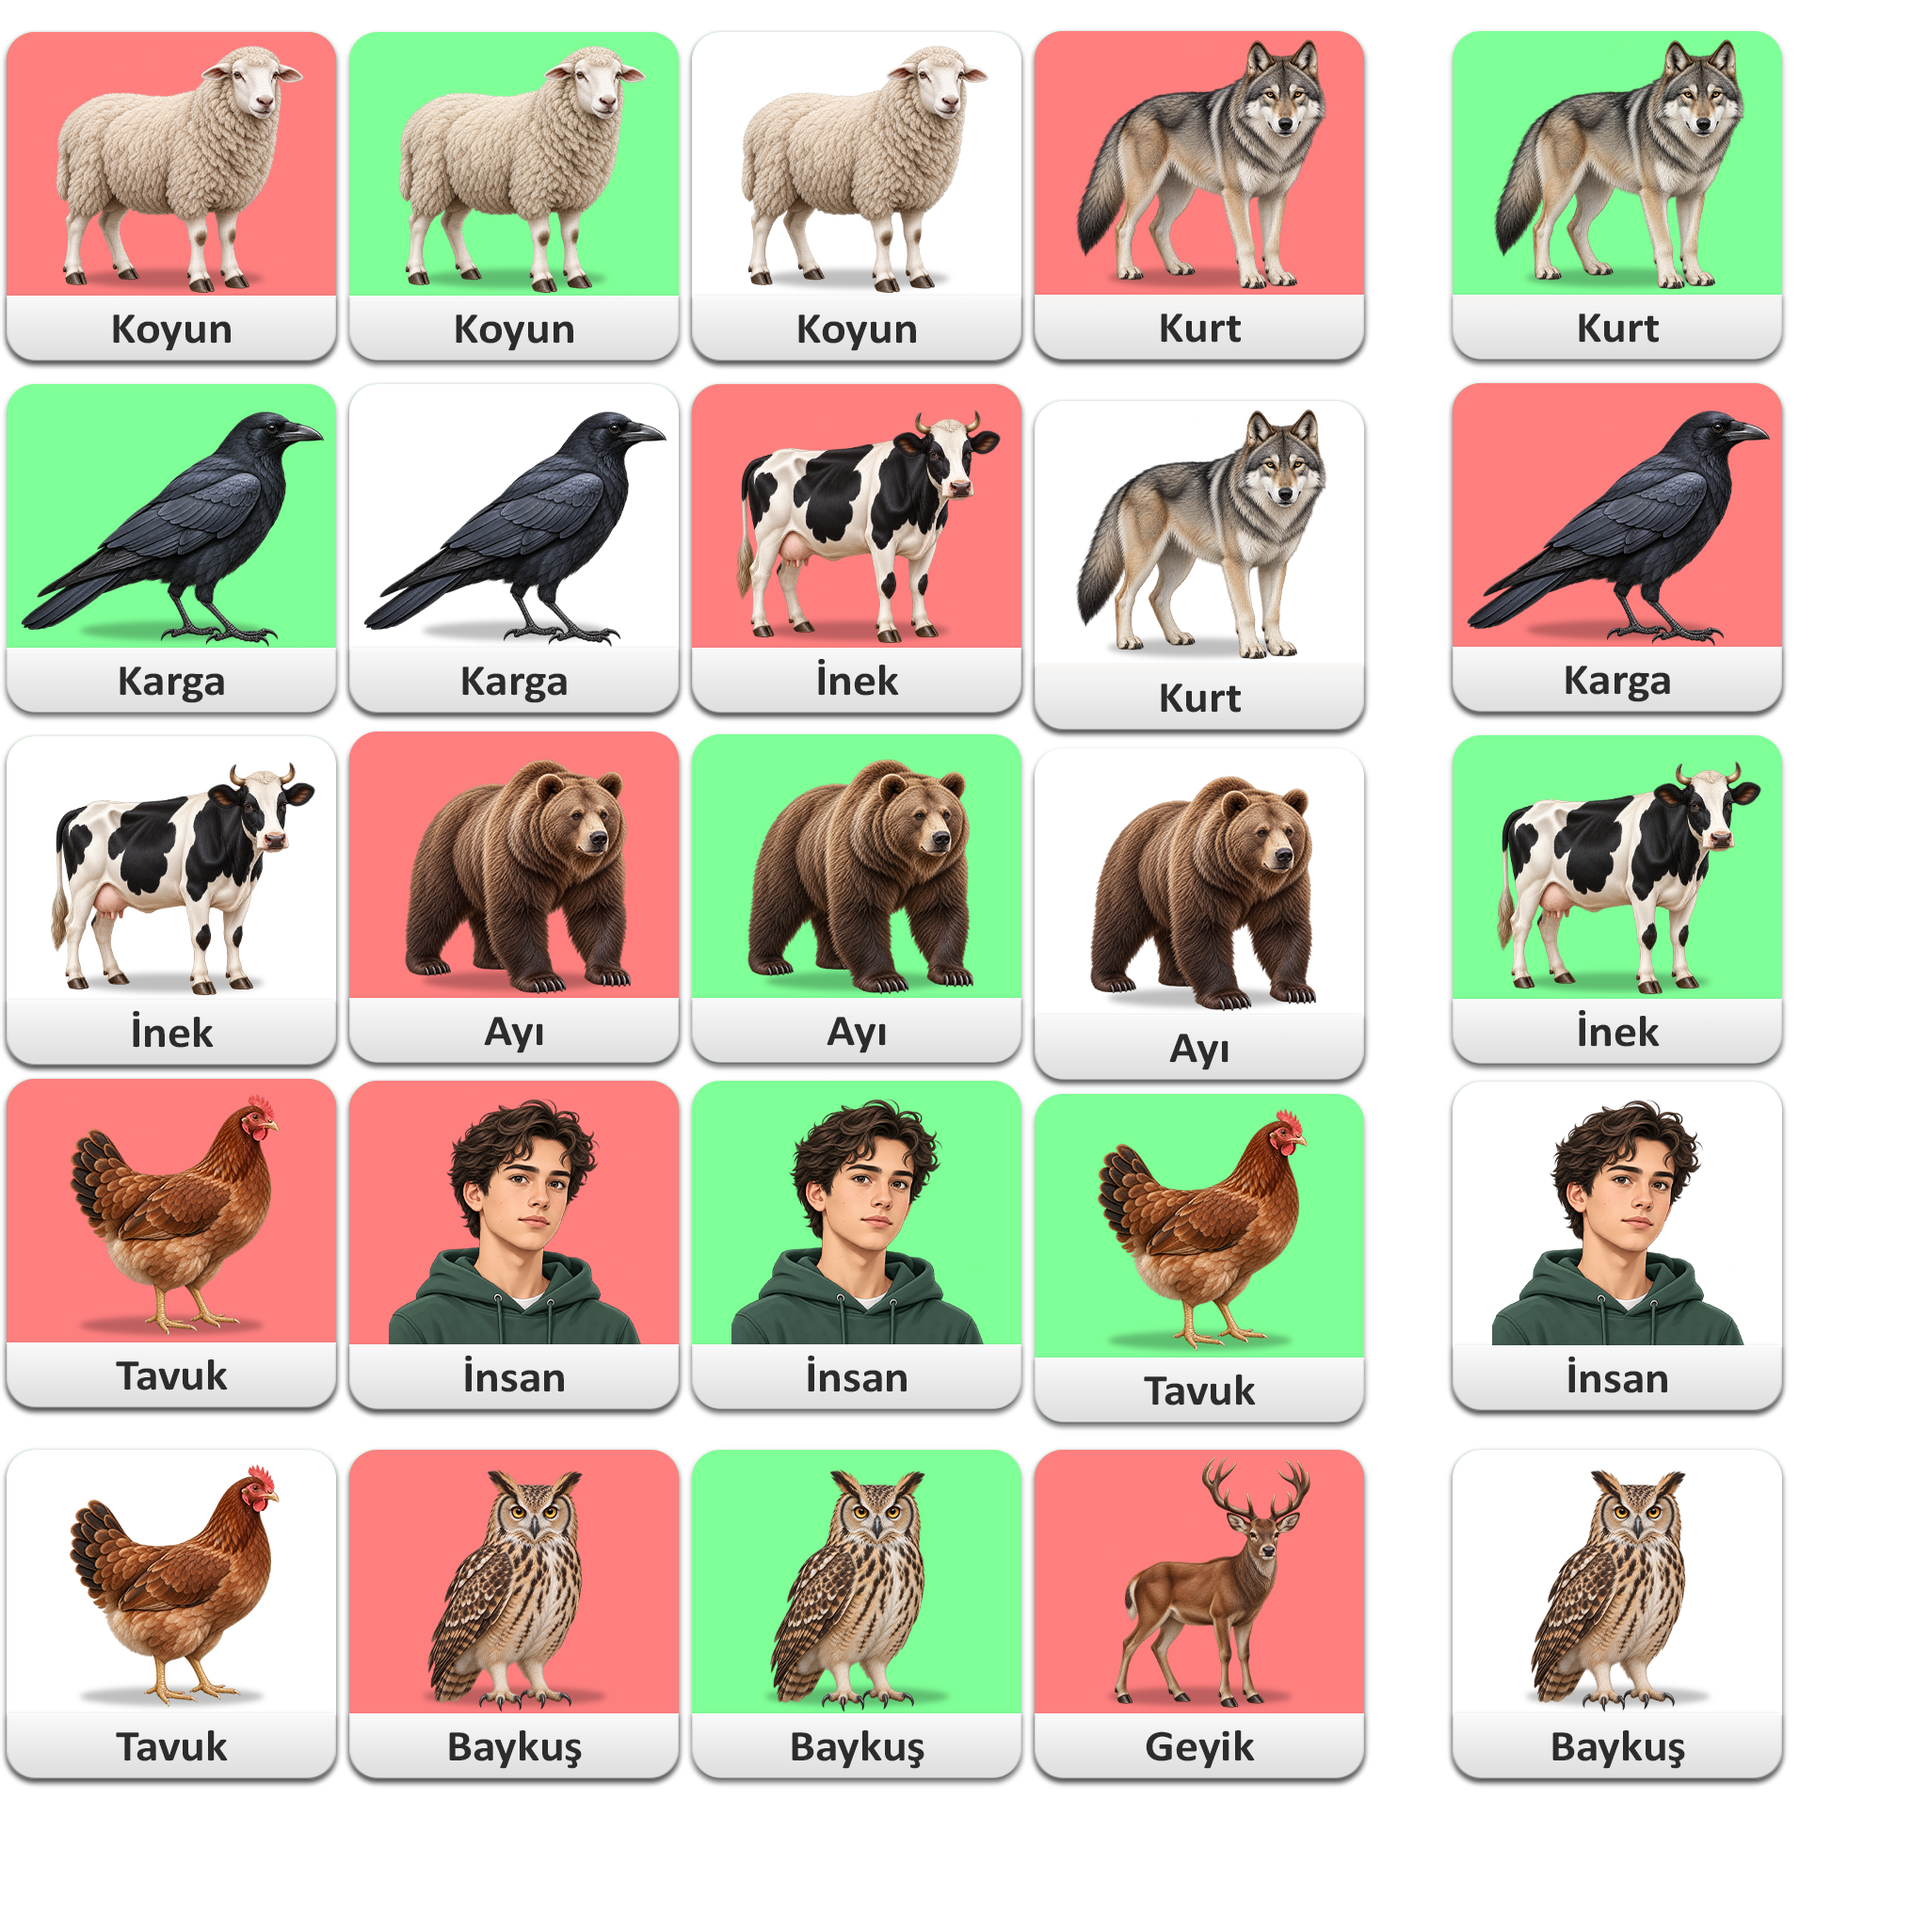
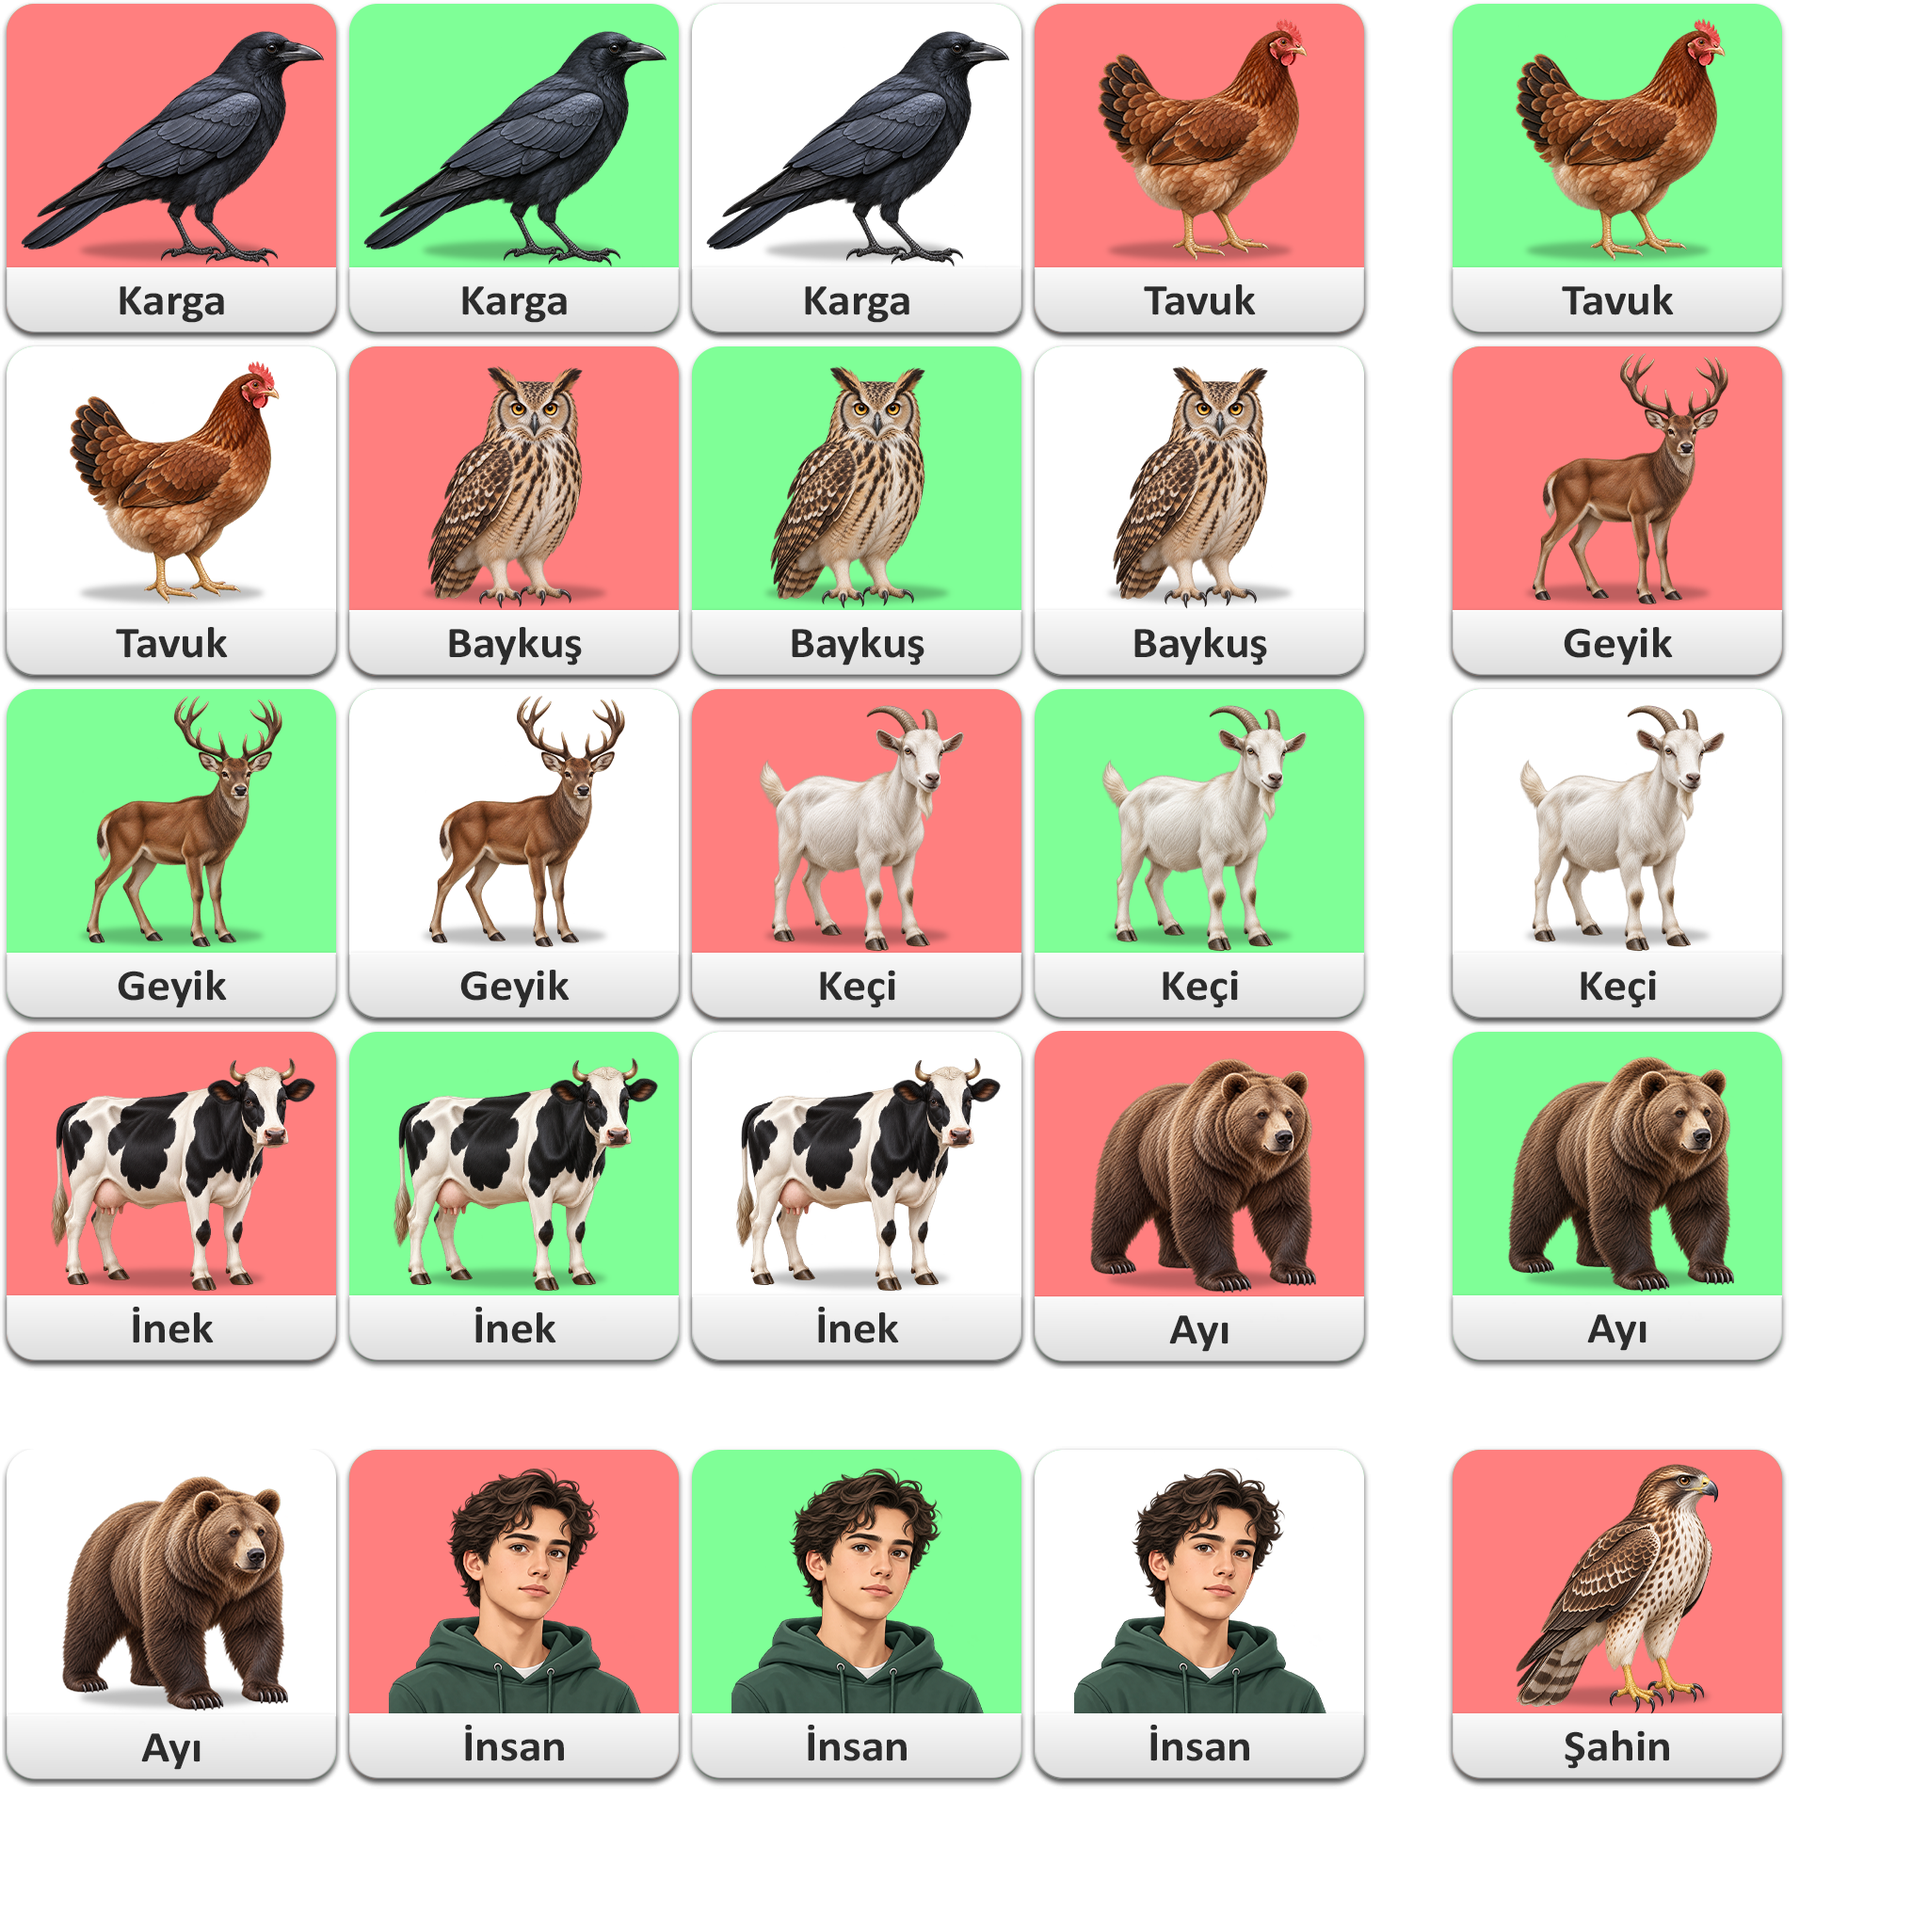
v3

diff --git a/scripts/project/main.js b/scripts/project/main.js
@@ -20,7 +20,7 @@ let soundEnabled = true;
 let audioContext = null;
 let masterGain = null;
 const soundBuffers = new Map();
-const answerSoundDelayMs = 170;
+const correctAnswerDelayMs = 2000;
 
 function shuffled(values) {
 	const result = [...values];
@@ -91,27 +91,36 @@ function setQuestion(runtime) {
 	const parts = getParts(runtime);
 	const target = game.order[game.round];
 	const answer = animals[target];
-	if (game.round === 0) {
-		game.options = [0, 1, 2, 3];
-	} else {
-		const distractors = shuffled(animals.map((_, i) => i).filter(i =>
-			signature(animals[i]) !== signature(answer))).slice(0, 3);
-		game.options = shuffled([target, ...distractors]);
+	if (!game.optionsByRound[game.round]) {
+		if (game.round === 0) {
+			game.optionsByRound[game.round] = [0, 1, 2, 3];
+		} else {
+			const distractors = shuffled(animals.map((_, i) => i).filter(i =>
+				signature(animals[i]) !== signature(answer))).slice(0, 3);
+			game.optionsByRound[game.round] = shuffled([target, ...distractors]);
+		}
 	}
 	[answer.stomach, answer.teeth, answer.diet, answer.gut, 13]
 		.forEach((frame, i) => parts.featureCards[i].animationFrame = frame);
-	game.options.forEach((animalIndex, i) =>
-		parts.animalCards[i].animationFrame = animalIndex * 3);
+	game.optionsByRound[game.round].forEach((animalIndex, i) => {
+		const card = parts.animalCards[i];
+		card.animationFrame = animalIndex * 3;
+		card.width = 362;
+		card.height = 362;
+	});
+	runtime.getInstanceByUid(140).isVisible = game.round > 0;
+	runtime.getInstanceByUid(141).isVisible = game.round < animals.length - 1;
 	parts.feedback.isVisible = false;
 	parts.panel.isVisible = false;
-	game.locked = false;
+	game.locked = game.solved[game.round];
 }
 
 function startGame(runtime) {
 	game = {
 		order: [2, ...shuffled(animals.map((_, i) => i).filter(i => i !== 2))],
 		round: 0,
-		options: [],
+		optionsByRound: [],
+		solved: Array(animals.length).fill(false),
 		locked: false,
 		menuOpen: false,
 		complete: false,
@@ -121,48 +130,54 @@ function startGame(runtime) {
 	setQuestion(runtime);
 }
 
-function showFeedback(runtime, frame) {
-	const toast = runtime.getInstanceByUid(131);
-	toast.animationFrame = frame;
-	toast.isVisible = true;
-}
-
 function answer(runtime, optionIndex) {
 	if (game.locked || game.menuOpen || game.complete) return;
-	void playSound("click");
-	const selected = game.options[optionIndex];
+	const selected = game.optionsByRound[game.round][optionIndex];
 	const correct = selected === game.order[game.round];
+	void playSound(correct ? "true" : "false");
 	const card = runtime.getInstanceByUid(110 + optionIndex);
 	card.animationFrame = selected * 3 + (correct ? 1 : 2);
-	showFeedback(runtime, correct ? 0 : 1);
 	const token = ++game.token;
-	setTimeout(() => {
-		if (game && game.token === token)
-			void playSound(correct ? "true" : "false");
-	}, answerSoundDelayMs);
 	if (correct) {
+		game.solved[game.round] = true;
 		game.locked = true;
-		setTimeout(() => {
-			if (!game || game.token !== token) return;
-			game.round++;
-			if (game.round === animals.length) {
-				game.complete = true;
+		game.complete = game.solved.every(Boolean);
+		if (game.complete) {
+			setTimeout(() => {
+				if (!game || game.token !== token) return;
 				const panel = runtime.getInstanceByUid(130);
 				panel.animationFrame = 1;
 				panel.isVisible = true;
-				runtime.getInstanceByUid(131).isVisible = false;
 				void playSound("greeting");
-			} else {
-				setQuestion(runtime);
-			}
-		}, 1100);
+			}, correctAnswerDelayMs);
+		} else {
+			setTimeout(() => {
+				if (!game || game.token !== token) return;
+				for (let offset = 1; offset < animals.length; offset++) {
+					const nextRound = (game.round + offset) % animals.length;
+					if (game.solved[nextRound]) continue;
+					game.round = nextRound;
+					setQuestion(runtime);
+					return;
+				}
+			}, correctAnswerDelayMs);
+		}
 	} else {
 		setTimeout(() => {
 			if (!game || game.token !== token) return;
 			card.animationFrame = selected * 3;
-			runtime.getInstanceByUid(131).isVisible = false;
 		}, 900);
 	}
+}
+
+function changeQuestion(runtime, direction) {
+	if (game.menuOpen || game.complete) return;
+	const nextRound = game.round + direction;
+	if (nextRound < 0 || nextRound >= animals.length) return;
+	void playSound("click");
+	game.token++;
+	game.round = nextRound;
+	setQuestion(runtime);
 }
 
 function toggleMenu(runtime) {
@@ -174,7 +189,7 @@ function toggleMenu(runtime) {
 	runtime.getInstanceByUid(131).isVisible = false;
 }
 
-async function shareGame(runtime) {
+async function shareGame() {
 	const payload = {
 		title: "Canlılarda Sindirim Çeşitleri ve Yapıları",
 		text: "Sindirim özelliklerine bakarak canlıyı bul!",
@@ -183,15 +198,10 @@ async function shareGame(runtime) {
 	try {
 		if (navigator.clipboard && navigator.maxTouchPoints === 0) {
 			await navigator.clipboard.writeText(`${payload.text} ${payload.url}`);
-			showFeedback(runtime, 2);
-			setTimeout(() => {
-				if (game) runtime.getInstanceByUid(131).isVisible = false;
-			}, 1800);
 		} else if (navigator.share) {
 			await navigator.share(payload);
 		} else {
 			await navigator.clipboard.writeText(`${payload.text} ${payload.url}`);
-			showFeedback(runtime, 2);
 		}
 	} catch (error) {
 		if (error?.name !== "AbortError") console.warn("Paylaşım yapılamadı", error);
@@ -236,14 +246,14 @@ function onPointer(runtime, event) {
 	}
 	if (hit(x, y, 1744, 70, 99, 100)) {
 		void playSound("click");
-		return void shareGame(runtime);
+		return void shareGame();
 	}
 	if (hit(x, y, 1852, 70, 99, 100)) {
 		void playSound("click");
 		return void toggleFullscreen(runtime);
 	}
 	if (game.complete) {
-		if (hit(x, y, 960, 721, 360, 75)) {
+		if (runtime.getInstanceByUid(130).isVisible && hit(x, y, 960, 721, 360, 75)) {
 			void playSound("click");
 			startGame(runtime);
 		}
@@ -256,6 +266,8 @@ function onPointer(runtime, event) {
 		}
 		return;
 	}
+	if (hit(x, y, 95, 813, 84, 84)) return changeQuestion(runtime, -1);
+	if (hit(x, y, 1825, 813, 84, 84)) return changeQuestion(runtime, 1);
 	for (let i = 0; i < 4; ++i) {
 		if (hit(x, y, 382 + 385 * i, 813, 362, 362)) {
 			answer(runtime, i);

diff --git a/scripts/objRefTable.js b/scripts/objRefTable.js
@@ -14,7 +14,8 @@ self.C3_JsPropNameTable = [
 	{animalCard: 0},
 	{menuBtn: 0},
 	{panel: 0},
-	{feedback: 0}
+	{feedback: 0},
+	{navArrow: 0}
 ];
 
 self.InstanceType = {
@@ -27,5 +28,6 @@ self.InstanceType = {
 	animalCard: class extends self.ISpriteInstance {},
 	menuBtn: class extends self.ISpriteInstance {},
 	panel: class extends self.ISpriteInstance {},
-	feedback: class extends self.ISpriteInstance {}
+	feedback: class extends self.ISpriteInstance {},
+	navArrow: class extends self.ISpriteInstance {}
 }
